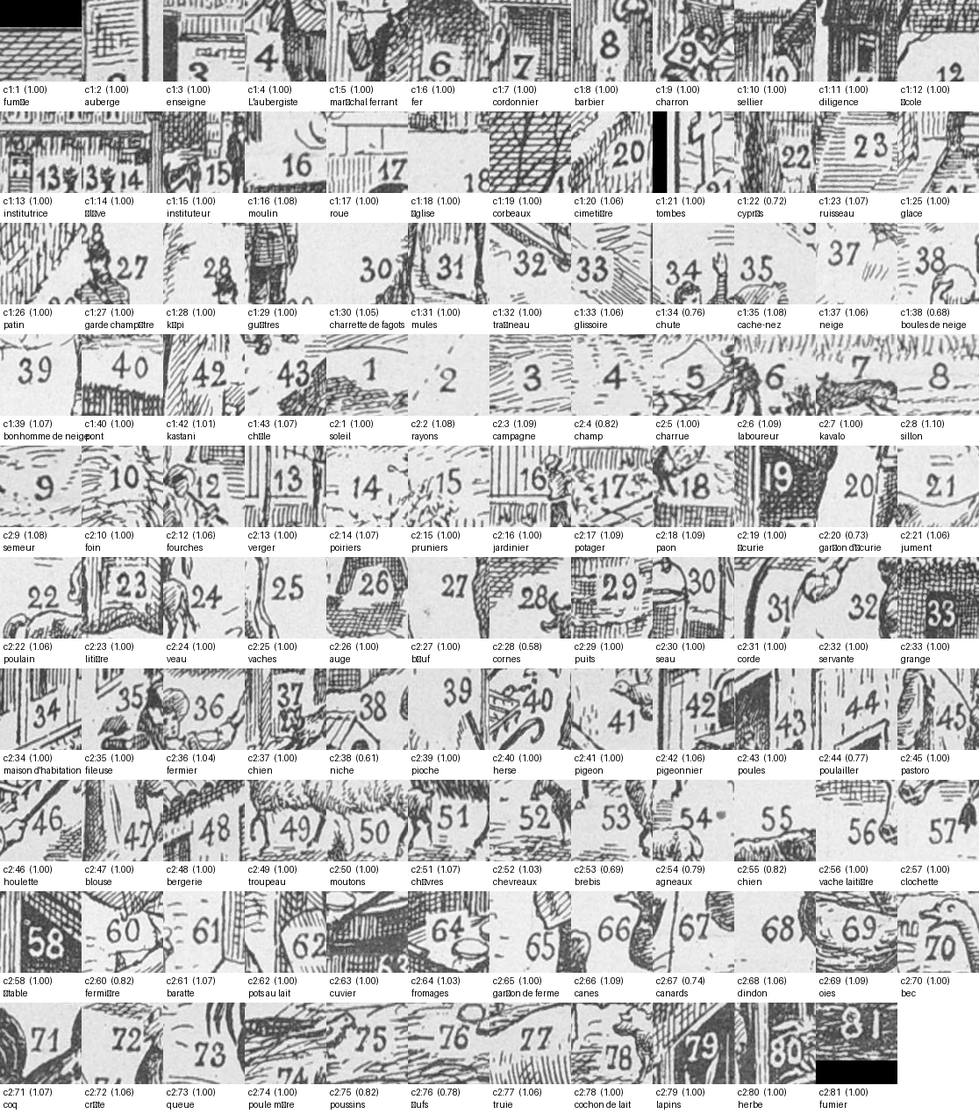
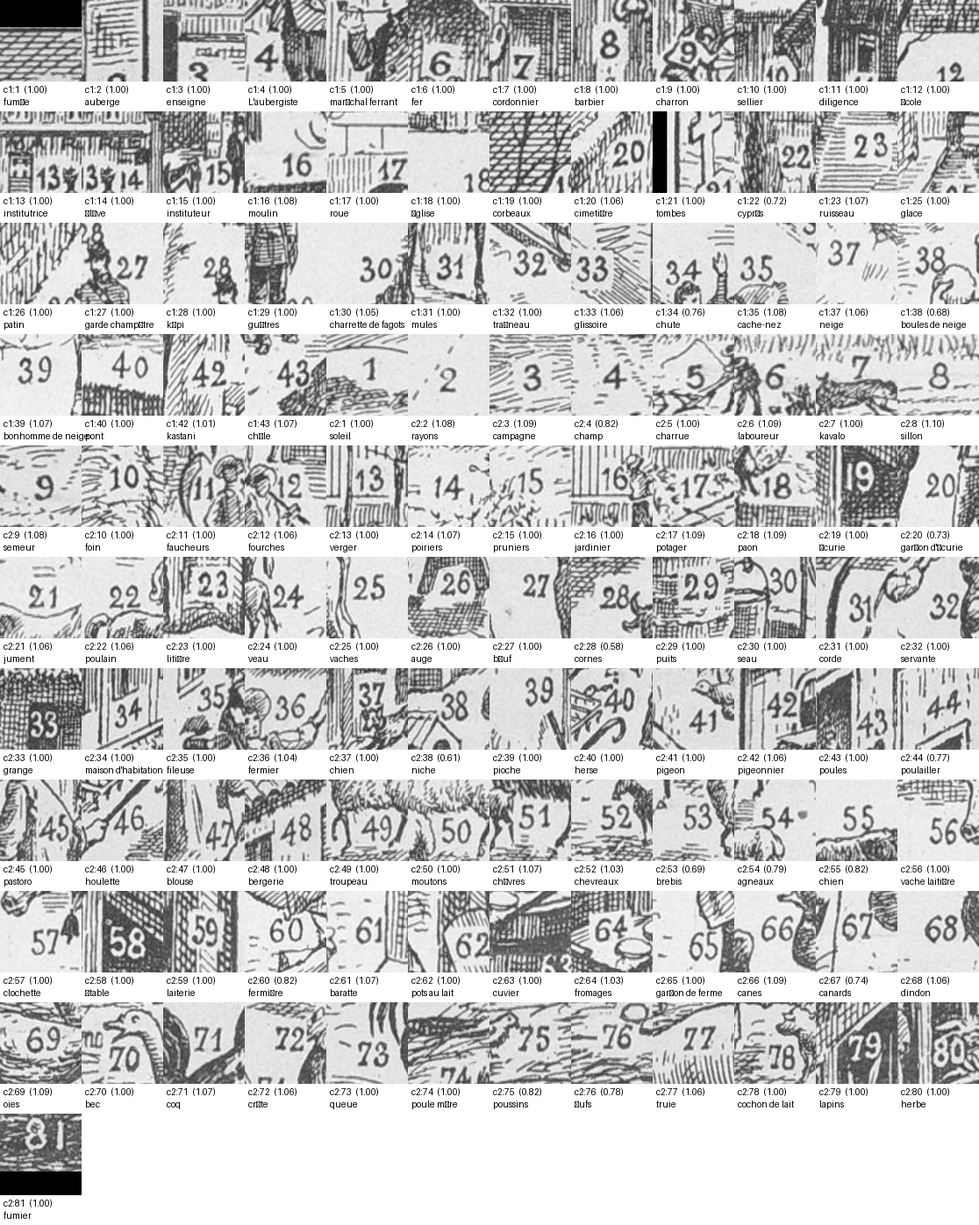
Le 11 et le 59 du tableau 7 : 1651 sur 1674
La planche decoupee en douze tuiles, a l'echelle ou les chiffres se
lisent sans effort, un cercle sur chacun de ceux qu'on tient deja :
c'est la facon la plus sure de voir ce qui manque, et la plus lente.
Elle rend ici le 11 du berger et le 59 de la devanture.

On a aussi essaye l'inverse — demander au lecteur gris TOUS les
groupes de chiffres qu'aucun numero connu n'explique, sans exiger
qu'ils soient dans la liste attendue. Sur le tableau 14 cela donne
six cent quatre-vingts orphelins, dont presque tous sont des fenetres,
des balustrades et des lettres d'enseigne : « CAMBIO », « SCAPINI »,
« CHANGE ». Meme en n'en gardant que les groupes de deux chiffres, il
en reste soixante, et pas un des cinq qui manquent. La piste ne mene
nulle part : on la note pour ne pas la reprendre.

Claude-Session: https://claude.ai/code/session_01XDiXqzHNvLee8gq7oDoAvX

diff --git a/index.html b/index.html
@@ -768,7 +768,7 @@ mark{background:rgba(180,85,45,.22);color:inherit;border-radius:2px}
 <div class="r p" id="t07-c2-01-2" data-cle="t07-c2-01-2"><div class="k io"><a class="fol" href="tabeli.pdf#page=52" title="Folio 51 en la PDF">51</a>Quante gayiganta tabelon aspektas farmala korto, vespere, en la mayo-monato !</div><div class="k tra" data-lg="fr"><a class="fol fd" href="tableaux.pdf#page=48" title="Folio 46 dans le PDF">46</a>Quel tableau réjouissant que l’aspect d’une cour de ferme, le soir, au mois de mai !</div></div>
 <div class="r p" id="t07-c2-02-1" data-cle="t07-c2-02-1"><div class="k io"><a class="fol" href="tabeli.pdf#page=52" title="Folio 51 en la PDF">51</a>2. — Ye la horizonto la <b>suno</b> <button class="lupo" data-g="t07-apar-1" data-c="0.881026,0.266511,0.003096,0.009673" data-n="1" title="suno" aria-expanded="false"><sup>(1)</sup></button> lente kushas su, inundante la <b>ruro</b> <button class="lupo" data-g="t07-apar-1" data-c="0.803627,0.293195,0.004423,0.011341" data-n="3" title="ruro" aria-expanded="false"><sup>(3)</sup></button> per sua purpurea <b>radii</b> <button class="lupo" data-g="t07-apar-1" data-c="0.927245,0.206805,0.004202,0.01034" data-n="2" title="radii" aria-expanded="false"><sup>(2)</sup></button>. La diligenta <b>plugisto</b> <button class="lupo" data-g="t07-apar-1" data-c="0.966829,0.376584,0.004865,0.010674" data-n="6" title="plugisto" aria-expanded="false"><sup>(6)</sup></button> hastas plugar sua <b>agro</b> <button class="lupo" data-g="t07-apar-1" data-c="0.807165,0.3499,0.005307,0.009673" data-n="4" title="agro" aria-expanded="false"><sup>(4)</sup></button>.</div><div class="k tra" data-lg="fr"><a class="fol fd" href="tableaux.pdf#page=48" title="Folio 46 dans le PDF">46</a>2. — A l’horizon, le <b>soleil</b> <button class="lupo" data-g="t07-apar-1" data-c="0.881026,0.266511,0.003096,0.009673" data-n="1" title="soleil" aria-expanded="false"><sup>(1)</sup></button> se couche lentement, inondant la <b>campagne</b> <button class="lupo" data-g="t07-apar-1" data-c="0.803627,0.293195,0.004423,0.011341" data-n="3" title="campagne" aria-expanded="false"><sup>(3)</sup></button> de ses <b>rayons</b> <button class="lupo" data-g="t07-apar-1" data-c="0.927245,0.206805,0.004202,0.01034" data-n="2" title="rayons" aria-expanded="false"><sup>(2)</sup></button> de pourpre. Le <b>laboureur</b> <button class="lupo" data-g="t07-apar-1" data-c="0.966829,0.376584,0.004865,0.010674" data-n="6" title="laboureur" aria-expanded="false"><sup>(6)</sup></button> diligent se hâte de labourer son <b>champ</b> <button class="lupo" data-g="t07-apar-1" data-c="0.807165,0.3499,0.005307,0.009673" data-n="4" title="champ" aria-expanded="false"><sup>(4)</sup></button>.</div></div>
 <div class="r p" id="t07-c2-02-2" data-cle="t07-c2-02-2"><div class="k io"><a class="fol" href="tabeli.pdf#page=52" title="Folio 51 en la PDF">51</a>Per sua <b>plugilo</b> <button class="lupo" data-g="t07-apar-1" data-c="0.950022,0.381588,0.004202,0.009673" data-n="5" title="plugilo" aria-expanded="false"><sup>(5)</sup></button> jungita a vigoroza <b>kavalo</b> <button class="lupo" data-g="t07-apar-1" data-c="0.923485,0.376251,0.004423,0.009673" data-n="7" title="kavalo" aria-expanded="false"><sup>(7)</sup></button>, il trasas la <b>sulko</b> <button class="lupo" data-g="t07-apar-1" data-c="0.89341,0.376918,0.005086,0.011341" data-n="8" title="sulko" aria-expanded="false"><sup>(8)</sup></button> en qua la <b>semero</b> <button class="lupo" data-g="t07-apar-1" data-c="0.745688,0.368579,0.004644,0.01034" data-n="9" title="semero" aria-expanded="false"><sup>(9)</sup></button> per plena manuedo jetos la <b>semino</b> qua produktos la orea spiki.</div><div class="k tra" data-lg="fr"><a class="fol fd" href="tableaux.pdf#page=48" title="Folio 46 dans le PDF">46</a>Avec sa <b>charrue</b> <button class="lupo" data-g="t07-apar-1" data-c="0.950022,0.381588,0.004202,0.009673" data-n="5" title="charrue" aria-expanded="false"><sup>(5)</sup></button> attelée d’un vigoureux cheval <button class="lupo" data-g="t07-apar-1" data-c="0.923485,0.376251,0.004423,0.009673" data-n="7" title="kavalo" aria-expanded="false"><sup>(7)</sup></button>, il trace le <b>sillon</b> <button class="lupo" data-g="t07-apar-1" data-c="0.89341,0.376918,0.005086,0.011341" data-n="8" title="sillon" aria-expanded="false"><sup>(8)</sup></button> dans lequel le <b>semeur</b> <button class="lupo" data-g="t07-apar-1" data-c="0.745688,0.368579,0.004644,0.01034" data-n="9" title="semeur" aria-expanded="false"><sup>(9)</sup></button> jette à pleine poignée le <b>grain</b> qui donnera la moisson blonde.</div></div>
-<div class="r p" id="t07-c2-03-1" data-cle="t07-c2-03-1"><div class="k io"><a class="fol" href="tabeli.pdf#page=52" title="Folio 51 en la PDF">51</a>3. — La <b>falchisti</b> <sup>(11)</sup> provizita per sua falchili falchis la herbo dil prato, la fanigisti sikigis la <b>feno</b> <button class="lupo" data-g="t07-apar-1" data-c="0.815126,0.401268,0.008403,0.009673" data-n="10" title="feno" aria-expanded="false"><sup>(10)</sup></button> turnante lu per <b>forki</b> <button class="lupo" data-g="t07-apar-1" data-c="0.840778,0.484323,0.007519,0.008672" data-n="12" title="forki" aria-expanded="false"><sup>(12)</sup></button> e rastili, e yen ke li retrovenas.</div><div class="k tra" data-lg="fr"><a class="fol fd" href="tableaux.pdf#page=48" title="Folio 46 dans le PDF">46</a>3. — Les <b>faucheurs</b> <sup>(11)</sup> armés de leurs <b>faux</b> ont coupé (fauché) l’herbe de la prairie, les <b>faneurs</b> ont fait sécher le <b>foin</b> <button class="lupo" data-g="t07-apar-1" data-c="0.815126,0.401268,0.008403,0.009673" data-n="10" title="foin" aria-expanded="false"><sup>(10)</sup></button> en le retournant avec les <b>fourches</b> <button class="lupo" data-g="t07-apar-1" data-c="0.840778,0.484323,0.007519,0.008672" data-n="12" title="fourches" aria-expanded="false"><sup>(12)</sup></button> et les <b>râteaux</b>, et les voici qui rentrent.</div></div>
+<div class="r p" id="t07-c2-03-1" data-cle="t07-c2-03-1"><div class="k io"><a class="fol" href="tabeli.pdf#page=52" title="Folio 51 en la PDF">51</a>3. — La <b>falchisti</b> <button class="lupo" data-g="t07-apar-1" data-c="0.810482,0.486991,0.006192,0.009673" data-n="11" title="falchisti" aria-expanded="false"><sup>(11)</sup></button> provizita per sua falchili falchis la herbo dil prato, la fanigisti sikigis la <b>feno</b> <button class="lupo" data-g="t07-apar-1" data-c="0.815126,0.401268,0.008403,0.009673" data-n="10" title="feno" aria-expanded="false"><sup>(10)</sup></button> turnante lu per <b>forki</b> <button class="lupo" data-g="t07-apar-1" data-c="0.840778,0.484323,0.007519,0.008672" data-n="12" title="forki" aria-expanded="false"><sup>(12)</sup></button> e rastili, e yen ke li retrovenas.</div><div class="k tra" data-lg="fr"><a class="fol fd" href="tableaux.pdf#page=48" title="Folio 46 dans le PDF">46</a>3. — Les <b>faucheurs</b> <button class="lupo" data-g="t07-apar-1" data-c="0.810482,0.486991,0.006192,0.009673" data-n="11" title="faucheurs" aria-expanded="false"><sup>(11)</sup></button> armés de leurs <b>faux</b> ont coupé (fauché) l’herbe de la prairie, les <b>faneurs</b> ont fait sécher le <b>foin</b> <button class="lupo" data-g="t07-apar-1" data-c="0.815126,0.401268,0.008403,0.009673" data-n="10" title="foin" aria-expanded="false"><sup>(10)</sup></button> en le retournant avec les <b>fourches</b> <button class="lupo" data-g="t07-apar-1" data-c="0.840778,0.484323,0.007519,0.008672" data-n="12" title="fourches" aria-expanded="false"><sup>(12)</sup></button> et les <b>râteaux</b>, et les voici qui rentrent.</div></div>
 <div class="r p" id="t07-c2-03-2" data-cle="t07-c2-03-2"><div class="k io"><a class="fol" href="tabeli.pdf#page=52" title="Folio 51 en la PDF">51</a>Uni marchas avan la pezoza veturo tirata da bovi; li kunportas sua utensilo sur la shultro. Altri, plu indolenta, komfortoze su instalis sur l’odoranta feno.</div><div class="k tra" data-lg="fr"><a class="fol fd" href="tableaux.pdf#page=48" title="Folio 46 dans le PDF">46</a>Les uns marchent devant la lourde voiture traînée par des bœufs; ils portent leur outil sur l’épaule. Les autres, plus paresseux, se sont commodément installés dans le foin parfumé.</div></div>
 <div class="r p" id="t07-c2-04-1" data-cle="t07-c2-04-1"><div class="k io"><a class="fol" href="tabeli.pdf#page=52" title="Folio 51 en la PDF">51</a>4. — Pasante li facas amikal saluto al <b>gardenisto</b> <button class="lupo" data-g="t07-apar-1" data-c="0.927908,0.454303,0.008625,0.009673" data-n="16" title="gardenisto" aria-expanded="false"><sup>(16)</sup></button> okupata en la <b>frukto-gardeno</b> <button class="lupo" data-g="t07-apar-1" data-c="0.872844,0.453636,0.008403,0.009673" data-n="13" title="frukto-gardeno" aria-expanded="false"><sup>(13)</sup></button> per taliar la <b>frukt-arbori</b> e greftar la <b>pirieri</b> <button class="lupo" data-g="t07-apar-1" data-c="0.939407,0.413943,0.007519,0.009673" data-n="14" title="pirieri" aria-expanded="false"><sup>(14)</sup></button>. La <b>prunieri</b> <button class="lupo" data-g="t07-apar-1" data-c="0.896948,0.418279,0.008182,0.009673" data-n="15" title="prunieri" aria-expanded="false"><sup>(15)</sup></button> florifeskas, e, en la <b>legum-gardeno</b> <button class="lupo" data-g="t07-apar-1" data-c="0.917736,0.475317,0.006855,0.010007" data-n="17" title="legum-gardeno" aria-expanded="false"><sup>(17)</sup></button> bone sterkizita, la legumi, kauli e saladi ja esas bonastanda.</div><div class="k tra" data-lg="fr"><a class="fol fd" href="tableaux.pdf#page=49" title="Folio 47 dans le PDF">47</a>4. — Ils adressent en passant un salut amical au <b>jardinier</b> <button class="lupo" data-g="t07-apar-1" data-c="0.927908,0.454303,0.008625,0.009673" data-n="16" title="jardinier" aria-expanded="false"><sup>(16)</sup></button> occupé dans le <b>verger</b> <button class="lupo" data-g="t07-apar-1" data-c="0.872844,0.453636,0.008403,0.009673" data-n="13" title="verger" aria-expanded="false"><sup>(13)</sup></button> à tailler les <b>arbres fruitiers</b> et à greffer les <b>poiriers</b> <button class="lupo" data-g="t07-apar-1" data-c="0.939407,0.413943,0.007519,0.009673" data-n="14" title="poiriers" aria-expanded="false"><sup>(14)</sup></button>. Les <b>pruniers</b> <button class="lupo" data-g="t07-apar-1" data-c="0.896948,0.418279,0.008182,0.009673" data-n="15" title="pruniers" aria-expanded="false"><sup>(15)</sup></button> sont en fleurs, et, dans le <b>potager</b> <button class="lupo" data-g="t07-apar-1" data-c="0.917736,0.475317,0.006855,0.010007" data-n="17" title="potager" aria-expanded="false"><sup>(17)</sup></button> bien fumé, les légumes, choux et salades sont déjà superbes.</div></div>
 <div class="r p" id="t07-c2-04-2" data-cle="t07-c2-04-2"><div class="k io"><a class="fol" href="tabeli.pdf#page=52" title="Folio 51 en la PDF">51</a>Sur la mureto, bela <b>pavono</b> <button class="lupo" data-g="t07-apar-1" data-c="0.89916,0.511341,0.006413,0.01034" data-n="18" title="pavono" aria-expanded="false"><sup>(18)</sup></button> developas sua kaudo, por admirigar olua plumi belega.</div><div class="k tra" data-lg="fr"><a class="fol fd" href="tableaux.pdf#page=49" title="Folio 47 dans le PDF">47</a>Sur le petit mur, un beau <b>paon</b> <button class="lupo" data-g="t07-apar-1" data-c="0.89916,0.511341,0.006413,0.01034" data-n="18" title="paon" aria-expanded="false"><sup>(18)</sup></button> fait la roue pour faire admirer les superbes plumes de sa queue.</div></div>
@@ -782,7 +782,7 @@ mark{background:rgba(180,85,45,.22);color:inherit;border-radius:2px}
 <div class="r p" id="t07-c2-10-1" data-cle="t07-c2-10-1"><div class="k io"><a class="fol" href="tabeli.pdf#page=53" title="Folio 52 en la PDF">52</a>10. — Avan la <b>mutoneyo</b> <button class="lupo" data-g="t07-apar-1" data-c="0.56015,0.495997,0.010394,0.009673" data-n="48" title="mutoneyo" aria-expanded="false"><sup>(48)</sup></button>, yen la olda <b>pastoro</b> <button class="lupo" data-g="t07-apar-1" data-c="0.586245,0.647765,0.010394,0.009673" data-n="45" title="pastoro" aria-expanded="false"><sup>(45)</sup></button> qua retroduktas sua (muton)-<b>tru</b> <b>po</b> <button class="lupo" data-g="t07-apar-1" data-c="0.619637,0.699466,0.010394,0.009673" data-n="49" title="po" aria-expanded="false"><sup>(49)</sup></button>. Tenante sua (pastor)-<b>bastono</b> <button class="lupo" data-g="t07-apar-1" data-c="0.615657,0.625751,0.010836,0.009673" data-n="46" title="bastono" aria-expanded="false"><sup>(46)</sup></button>, qua nultempe mankas a lu, same kam lua <b>bluzo</b> <button class="lupo" data-g="t07-apar-1" data-c="0.590226,0.671781,0.010615,0.009673" data-n="47" title="bluzo" aria-expanded="false"><sup>(47)</sup></button> senkolorigita, il duktas a la stablo <b>mutonuli</b> <button class="lupo" data-g="t07-apar-1" data-c="0.745024,0.693796,0.009509,0.009673" data-n="50" title="mutonuli" aria-expanded="false"><sup>(50)</sup></button>, <b>mutonini</b> <button class="lupo" data-g="t07-apar-1" data-c="0.684432,0.751167,0.008403,0.01034" data-n="53" title="mutonini" aria-expanded="false"><sup>(53)</sup></button>, <b>mutonyuni</b> <button class="lupo" data-g="t07-apar-1" data-c="0.744803,0.733489,0.00973,0.009673" data-n="54" title="mutonyuni" aria-expanded="false"><sup>(54)</sup></button>, <b>kaprini</b> <button class="lupo" data-g="t07-apar-1" data-c="0.658779,0.736157,0.008403,0.00934" data-n="51" title="kaprini" aria-expanded="false"><sup>(51)</sup></button> e <b>kaproyuni</b> <button class="lupo" data-g="t07-apar-1" data-c="0.630252,0.734823,0.008625,0.011341" data-n="52" title="kaproyuni" aria-expanded="false"><sup>(52)</sup></button>. Lua fidela <b>hundo</b> <button class="lupo" data-g="t07-apar-1" data-c="0.798319,0.662442,0.009067,0.009673" data-n="55" title="hundo" aria-expanded="false"><sup>(55)</sup></button> Argus laste venas ed instigas per sua aboyi la diligenteso dil tardeskanti.</div><div class="k tra" data-lg="fr"><a class="fol fd" href="tableaux.pdf#page=49" title="Folio 47 dans le PDF">47</a>10. — Devant la <b>bergerie</b> <button class="lupo" data-g="t07-apar-1" data-c="0.56015,0.495997,0.010394,0.009673" data-n="48" title="bergerie" aria-expanded="false"><sup>(48)</sup></button>, voici le vieux berger <button class="lupo" data-g="t07-apar-1" data-c="0.586245,0.647765,0.010394,0.009673" data-n="45" title="pastoro" aria-expanded="false"><sup>(45)</sup></button> qui ramène son <b>troupeau</b> <button class="lupo" data-g="t07-apar-1" data-c="0.619637,0.699466,0.010394,0.009673" data-n="49" title="troupeau" aria-expanded="false"><sup>(49)</sup></button>. Armé de sa <b>houlette</b> <button class="lupo" data-g="t07-apar-1" data-c="0.615657,0.625751,0.010836,0.009673" data-n="46" title="houlette" aria-expanded="false"><sup>(46)</sup></button> qui ne le quitte pas plus que sa vieille <b>blouse</b> <button class="lupo" data-g="t07-apar-1" data-c="0.590226,0.671781,0.010615,0.009673" data-n="47" title="blouse" aria-expanded="false"><sup>(47)</sup></button> décolorée, il conduit au bercail <b>moutons</b> <button class="lupo" data-g="t07-apar-1" data-c="0.745024,0.693796,0.009509,0.009673" data-n="50" title="moutons" aria-expanded="false"><sup>(50)</sup></button>, <b>brebis</b> <button class="lupo" data-g="t07-apar-1" data-c="0.684432,0.751167,0.008403,0.01034" data-n="53" title="brebis" aria-expanded="false"><sup>(53)</sup></button>, <b>agneaux</b> <button class="lupo" data-g="t07-apar-1" data-c="0.744803,0.733489,0.00973,0.009673" data-n="54" title="agneaux" aria-expanded="false"><sup>(54)</sup></button>, <b>chèvres</b> <button class="lupo" data-g="t07-apar-1" data-c="0.658779,0.736157,0.008403,0.00934" data-n="51" title="chèvres" aria-expanded="false"><sup>(51)</sup></button> et <b>chevreaux</b> <button class="lupo" data-g="t07-apar-1" data-c="0.630252,0.734823,0.008625,0.011341" data-n="52" title="chevreaux" aria-expanded="false"><sup>(52)</sup></button>. Son fidèle <b>chien</b> <button class="lupo" data-g="t07-apar-1" data-c="0.798319,0.662442,0.009067,0.009673" data-n="55" title="chien" aria-expanded="false"><sup>(55)</sup></button> Labry ferme la marche et excite par ses aboiements le zèle des retardataires.</div></div>
 <div class="r p" id="t07-c2-11-1" data-cle="t07-c2-11-1"><div class="k io"><a class="fol" href="tabeli.pdf#page=54" title="Folio 53 en la PDF">53</a>11. — Ta omna bruisado e movado ne trublas la quieteso dil bona <b>laktifanta bovino</b> <button class="lupo" data-g="t07-apar-1" data-c="0.845644,0.658439,0.00973,0.009673" data-n="56" title="laktifanta bovino" aria-expanded="false"><sup>(56)</sup></button> qua tinkligas sua <b>klosheto</b> <button class="lupo" data-g="t07-apar-1" data-c="0.863777,0.673449,0.009509,0.009673" data-n="57" title="klosheto" aria-expanded="false"><sup>(57)</sup></button>, dum ke on melkas elu avan la pordo dil <b>stablo</b> <button class="lupo" data-g="t07-apar-1" data-c="0.954003,0.552368,0.009288,0.009673" data-n="58" title="stablo" aria-expanded="false"><sup>(58)</sup></button>.</div><div class="k tra" data-lg="fr"><a class="fol fd" href="tableaux.pdf#page=50" title="Folio 48 dans le PDF">48</a>11. — Tout ce bruit et tout ce mouvement ne troublent pas la placidité de la bonne <b>vache laitière</b> <button class="lupo" data-g="t07-apar-1" data-c="0.845644,0.658439,0.00973,0.009673" data-n="56" title="vache laitière" aria-expanded="false"><sup>(56)</sup></button> qui fait tinter sa <b>clochette</b> <button class="lupo" data-g="t07-apar-1" data-c="0.863777,0.673449,0.009509,0.009673" data-n="57" title="clochette" aria-expanded="false"><sup>(57)</sup></button> pendant qu’on la trait devant la porte de l’<b>étable</b> <button class="lupo" data-g="t07-apar-1" data-c="0.954003,0.552368,0.009288,0.009673" data-n="58" title="étable" aria-expanded="false"><sup>(58)</sup></button>.</div></div>
 <div class="r p" id="t07-c2-12-1" data-cle="t07-c2-12-1"><div class="k io"><a class="fol" href="tabeli.pdf#page=54" title="Folio 53 en la PDF">53</a>12. El semblas komprenar, ke el devas donar sua lakto, por ke la <b>farmistino</b> <button class="lupo" data-g="t07-apar-1" data-c="0.940071,0.765844,0.010394,0.010007" data-n="60" title="farmistino" aria-expanded="false"><sup>(60)</sup></button> povez prontigar <b>butro</b> en la <b>butrifilo</b> <button class="lupo" data-g="t07-apar-1" data-c="0.901592,0.801201,0.006634,0.01034" data-n="61" title="butrifilo" aria-expanded="false"><sup>(61)</sup></button> o la bonega <b>fromaji</b> <button class="lupo" data-g="t07-apar-1" data-c="0.956435,0.882588,0.009509,0.010007" data-n="64" title="fromaji" aria-expanded="false"><sup>(64)</sup></button>, qui gutifas de la tabulo pozita sur la <b>kuvego</b> <button class="lupo" data-g="t07-apar-1" data-c="0.971252,0.901268,0.010172,0.009673" data-n="63" title="kuvego" aria-expanded="false"><sup>(63)</sup></button>.</div><div class="k tra" data-lg="fr"><a class="fol fd" href="tableaux.pdf#page=50" title="Folio 48 dans le PDF">48</a>12. — Elle a l’air de comprendre qu’il faut qu’elle donne son lait pour que la <b>fermière</b> <button class="lupo" data-g="t07-apar-1" data-c="0.940071,0.765844,0.010394,0.010007" data-n="60" title="fermière" aria-expanded="false"><sup>(60)</sup></button> puisse faire du <b>beurre</b> dans la <b>baratte</b> <button class="lupo" data-g="t07-apar-1" data-c="0.901592,0.801201,0.006634,0.01034" data-n="61" title="baratte" aria-expanded="false"><sup>(61)</sup></button> ou confectionner les excellents <b>fromages</b> <button class="lupo" data-g="t07-apar-1" data-c="0.956435,0.882588,0.009509,0.010007" data-n="64" title="fromages" aria-expanded="false"><sup>(64)</sup></button> qui s’égouttent sur la planche posée sur le <b>cuvier</b> <button class="lupo" data-g="t07-apar-1" data-c="0.971252,0.901268,0.010172,0.009673" data-n="63" title="cuvier" aria-expanded="false"><sup>(63)</sup></button>.</div></div>
-<div class="r p" id="t07-c2-13-1" data-cle="t07-c2-13-1"><div class="k io"><a class="fol" href="tabeli.pdf#page=54" title="Folio 53 en la PDF">53</a>13. — La tota <b>lakteyo</b> <sup>(59)</sup> mantenesas tre nete da la <b>farm-servisto</b> <button class="lupo" data-g="t07-apar-1" data-c="0.835471,0.825884,0.00973,0.009673" data-n="65" title="farm-servisto" aria-expanded="false"><sup>(65)</sup></button> qua jus lavis la <b>lakto-poti</b> <button class="lupo" data-g="t07-apar-1" data-c="0.971915,0.716811,0.010172,0.009673" data-n="62" title="lakto-poti" aria-expanded="false"><sup>(62)</sup></button> en la granda sitelo quan il portas per la manuo.</div><div class="k tra" data-lg="fr"><a class="fol fd" href="tableaux.pdf#page=50" title="Folio 48 dans le PDF">48</a>13. — Toute la <b>laiterie</b> <sup>(59)</sup> est tenue très proprement par le <b>garçon de ferme</b> <button class="lupo" data-g="t07-apar-1" data-c="0.835471,0.825884,0.00973,0.009673" data-n="65" title="garçon de ferme" aria-expanded="false"><sup>(65)</sup></button>, qui vient de laver les <b>pots au lait</b> <button class="lupo" data-g="t07-apar-1" data-c="0.971915,0.716811,0.010172,0.009673" data-n="62" title="pots au lait" aria-expanded="false"><sup>(62)</sup></button> dans le grand seau qu’il porte à la main.</div></div>
+<div class="r p" id="t07-c2-13-1" data-cle="t07-c2-13-1"><div class="k io"><a class="fol" href="tabeli.pdf#page=54" title="Folio 53 en la PDF">53</a>13. — La tota <b>lakteyo</b> <button class="lupo" data-g="t07-apar-1" data-c="0.979876,0.655771,0.009951,0.009673" data-n="59" title="lakteyo" aria-expanded="false"><sup>(59)</sup></button> mantenesas tre nete da la <b>farm-servisto</b> <button class="lupo" data-g="t07-apar-1" data-c="0.835471,0.825884,0.00973,0.009673" data-n="65" title="farm-servisto" aria-expanded="false"><sup>(65)</sup></button> qua jus lavis la <b>lakto-poti</b> <button class="lupo" data-g="t07-apar-1" data-c="0.971915,0.716811,0.010172,0.009673" data-n="62" title="lakto-poti" aria-expanded="false"><sup>(62)</sup></button> en la granda sitelo quan il portas per la manuo.</div><div class="k tra" data-lg="fr"><a class="fol fd" href="tableaux.pdf#page=50" title="Folio 48 dans le PDF">48</a>13. — Toute la <b>laiterie</b> <button class="lupo" data-g="t07-apar-1" data-c="0.979876,0.655771,0.009951,0.009673" data-n="59" title="laiterie" aria-expanded="false"><sup>(59)</sup></button> est tenue très proprement par le <b>garçon de ferme</b> <button class="lupo" data-g="t07-apar-1" data-c="0.835471,0.825884,0.00973,0.009673" data-n="65" title="garçon de ferme" aria-expanded="false"><sup>(65)</sup></button>, qui vient de laver les <b>pots au lait</b> <button class="lupo" data-g="t07-apar-1" data-c="0.971915,0.716811,0.010172,0.009673" data-n="62" title="pots au lait" aria-expanded="false"><sup>(62)</sup></button> dans le grand seau qu’il porte à la main.</div></div>
 <div class="r sub" id="t07-tit-9" data-cle="t07-tit-9"><div class="k io"><a class="fol" href="tabeli.pdf#page=54" title="Folio 53 en la PDF">53</a><span class="pk" data-korpo="10.2pt" data-rolo="sekc">La pultreyo.</span></div><div class="k tra vaka" data-lg="fr"></div></div>
 <div class="r p" id="t07-c2-14-1" data-cle="t07-c2-14-1"><div class="k io"><a class="fol" href="tabeli.pdf#page=54" title="Folio 53 en la PDF">53</a>14. — Kun sua dika ligno-shui, il marchas kelke plumpe, e tale fugigas la <b>dindulo</b> <button class="lupo" data-g="t07-apar-1" data-c="0.739054,0.808539,0.009509,0.012008" data-n="68" title="dindulo" aria-expanded="false"><sup>(68)</sup></button>, la <b>anadini</b> <button class="lupo" data-g="t07-apar-1" data-c="0.801636,0.865577,0.009288,0.01034" data-n="66" title="anadini" aria-expanded="false"><sup>(66)</sup></button>, la <b>anaduli</b> <button class="lupo" data-g="t07-apar-1" data-c="0.780407,0.902602,0.00973,0.011674" data-n="67" title="anaduli" aria-expanded="false"><sup>(67)</sup></button> e la <b>gansi</b> <button class="lupo" data-g="t07-apar-1" data-c="0.722247,0.907605,0.009951,0.010674" data-n="69" title="gansi" aria-expanded="false"><sup>(69)</sup></button> qui larje apertas <b>sua beko</b> <button class="lupo" data-g="t07-apar-1" data-c="0.713401,0.868245,0.009951,0.009673" data-n="70" title="sua beko" aria-expanded="false"><sup>(70)</sup></button> e desquiete kriegas.</div><div class="k tra" data-lg="fr"><a class="fol fd" href="tableaux.pdf#page=50" title="Folio 48 dans le PDF">48</a>14. — Avec ses gros sabots, il marche un peu lourdement, ce qui met en fuite le <b>dindon</b> <button class="lupo" data-g="t07-apar-1" data-c="0.739054,0.808539,0.009509,0.012008" data-n="68" title="dindon" aria-expanded="false"><sup>(68)</sup></button>, les <b>canes</b> <button class="lupo" data-g="t07-apar-1" data-c="0.801636,0.865577,0.009288,0.01034" data-n="66" title="canes" aria-expanded="false"><sup>(66)</sup></button>, les <b>canards</b> <button class="lupo" data-g="t07-apar-1" data-c="0.780407,0.902602,0.00973,0.011674" data-n="67" title="canards" aria-expanded="false"><sup>(67)</sup></button> et les <b>oies</b> <button class="lupo" data-g="t07-apar-1" data-c="0.722247,0.907605,0.009951,0.010674" data-n="69" title="oies" aria-expanded="false"><sup>(69)</sup></button>, qui ouvrent un large <b>bec</b> <button class="lupo" data-g="t07-apar-1" data-c="0.713401,0.868245,0.009951,0.009673" data-n="70" title="bec" aria-expanded="false"><sup>(70)</sup></button> et poussent des cris désespérés.</div></div>
 <div class="r p" id="t07-c2-14-2" data-cle="t07-c2-14-2"><div class="k io"><a class="fol" href="tabeli.pdf#page=54" title="Folio 53 en la PDF">53</a>La <b>hanulo</b> <button class="lupo" data-g="t07-apar-1" data-c="0.676913,0.800534,0.007077,0.009673" data-n="71" title="hanulo" aria-expanded="false"><sup>(71)</sup></button>, plu kombatema, erektas sua reda <b>kresto</b> <button class="lupo" data-g="t07-apar-1" data-c="0.681557,0.781521,0.007519,0.009673" data-n="72" title="kresto" aria-expanded="false"><sup>(72)</sup></button>, sukusas la plumi di sua <b>kaudo</b> <button class="lupo" data-g="t07-apar-1" data-c="0.63755,0.816878,0.009951,0.009673" data-n="73" title="kaudo" aria-expanded="false"><sup>(73)</sup></button> ed audigas « kokoriko » sonorega.</div><div class="k tra" data-lg="fr"><a class="fol fd" href="tableaux.pdf#page=50" title="Folio 48 dans le PDF">48</a>Le <b>coq</b> <button class="lupo" data-g="t07-apar-1" data-c="0.676913,0.800534,0.007077,0.009673" data-n="71" title="coq" aria-expanded="false"><sup>(71)</sup></button>, plus belliqueux, dresse sa <b>crête</b> <button class="lupo" data-g="t07-apar-1" data-c="0.681557,0.781521,0.007519,0.009673" data-n="72" title="crête" aria-expanded="false"><sup>(72)</sup></button> rouge, secoue les plumes de sa <b>queue</b> <button class="lupo" data-g="t07-apar-1" data-c="0.63755,0.816878,0.009951,0.009673" data-n="73" title="queue" aria-expanded="false"><sup>(73)</sup></button> et lance un retentissant « cocorico ».</div></div>
